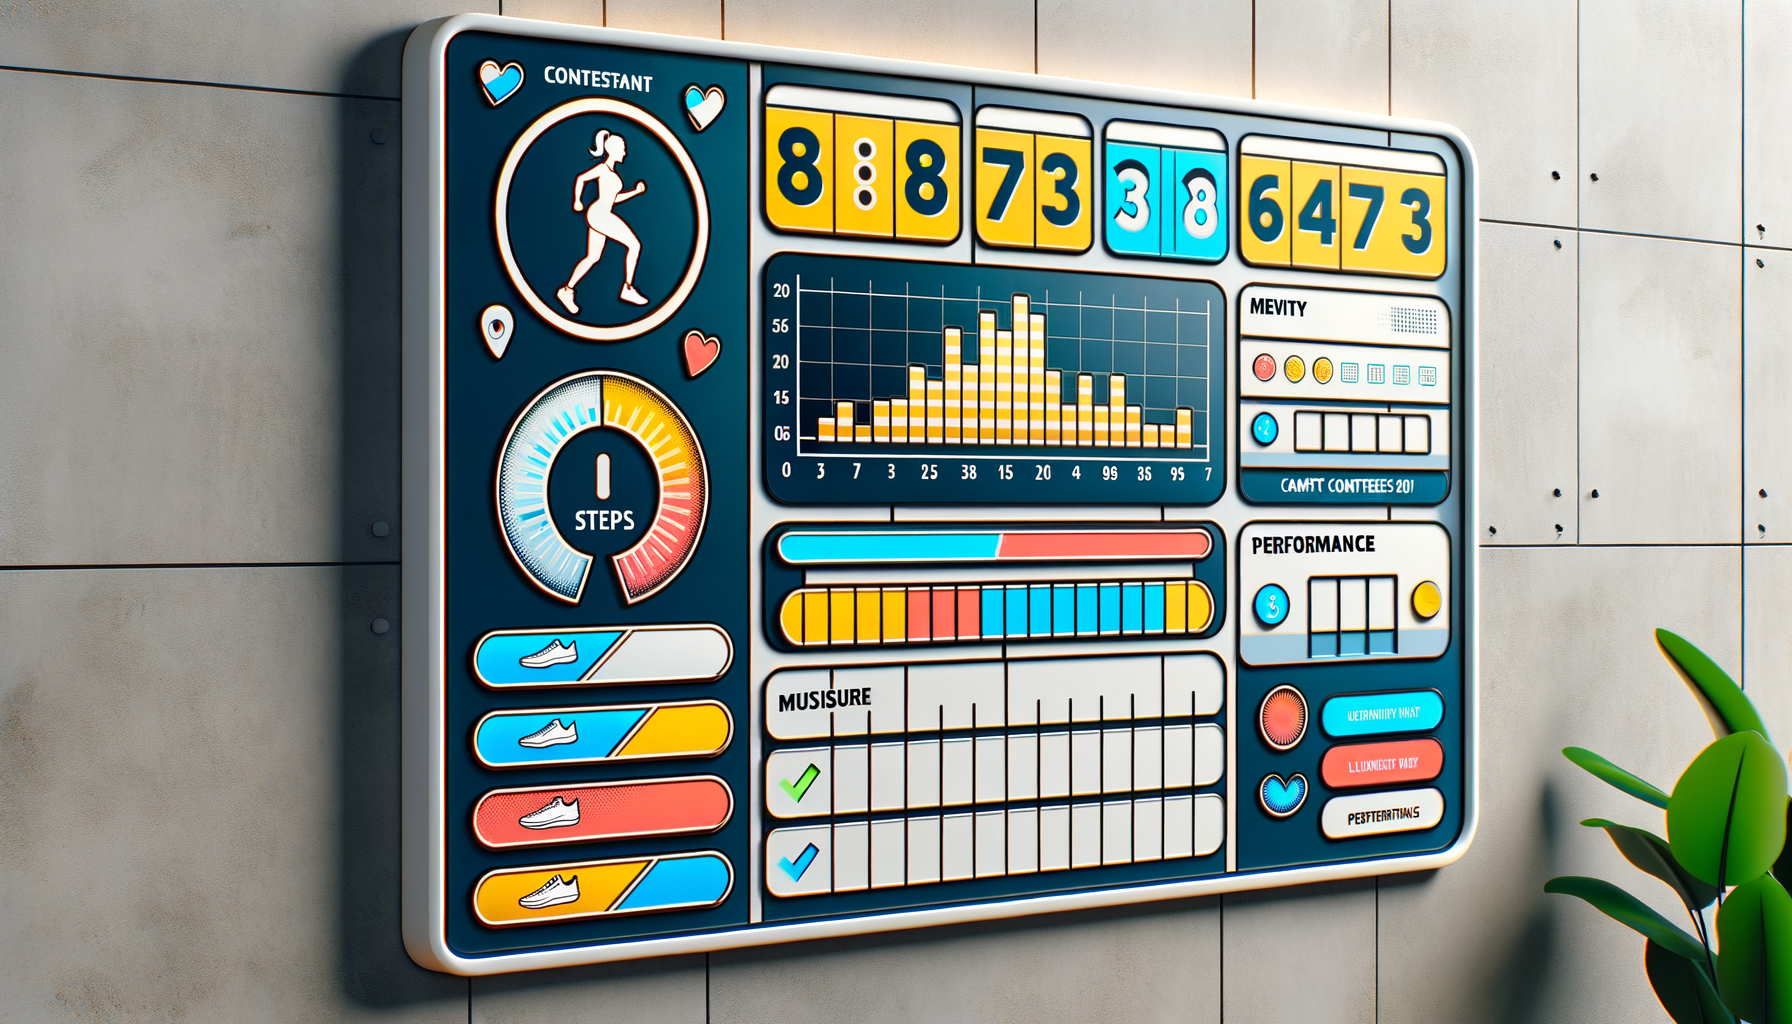
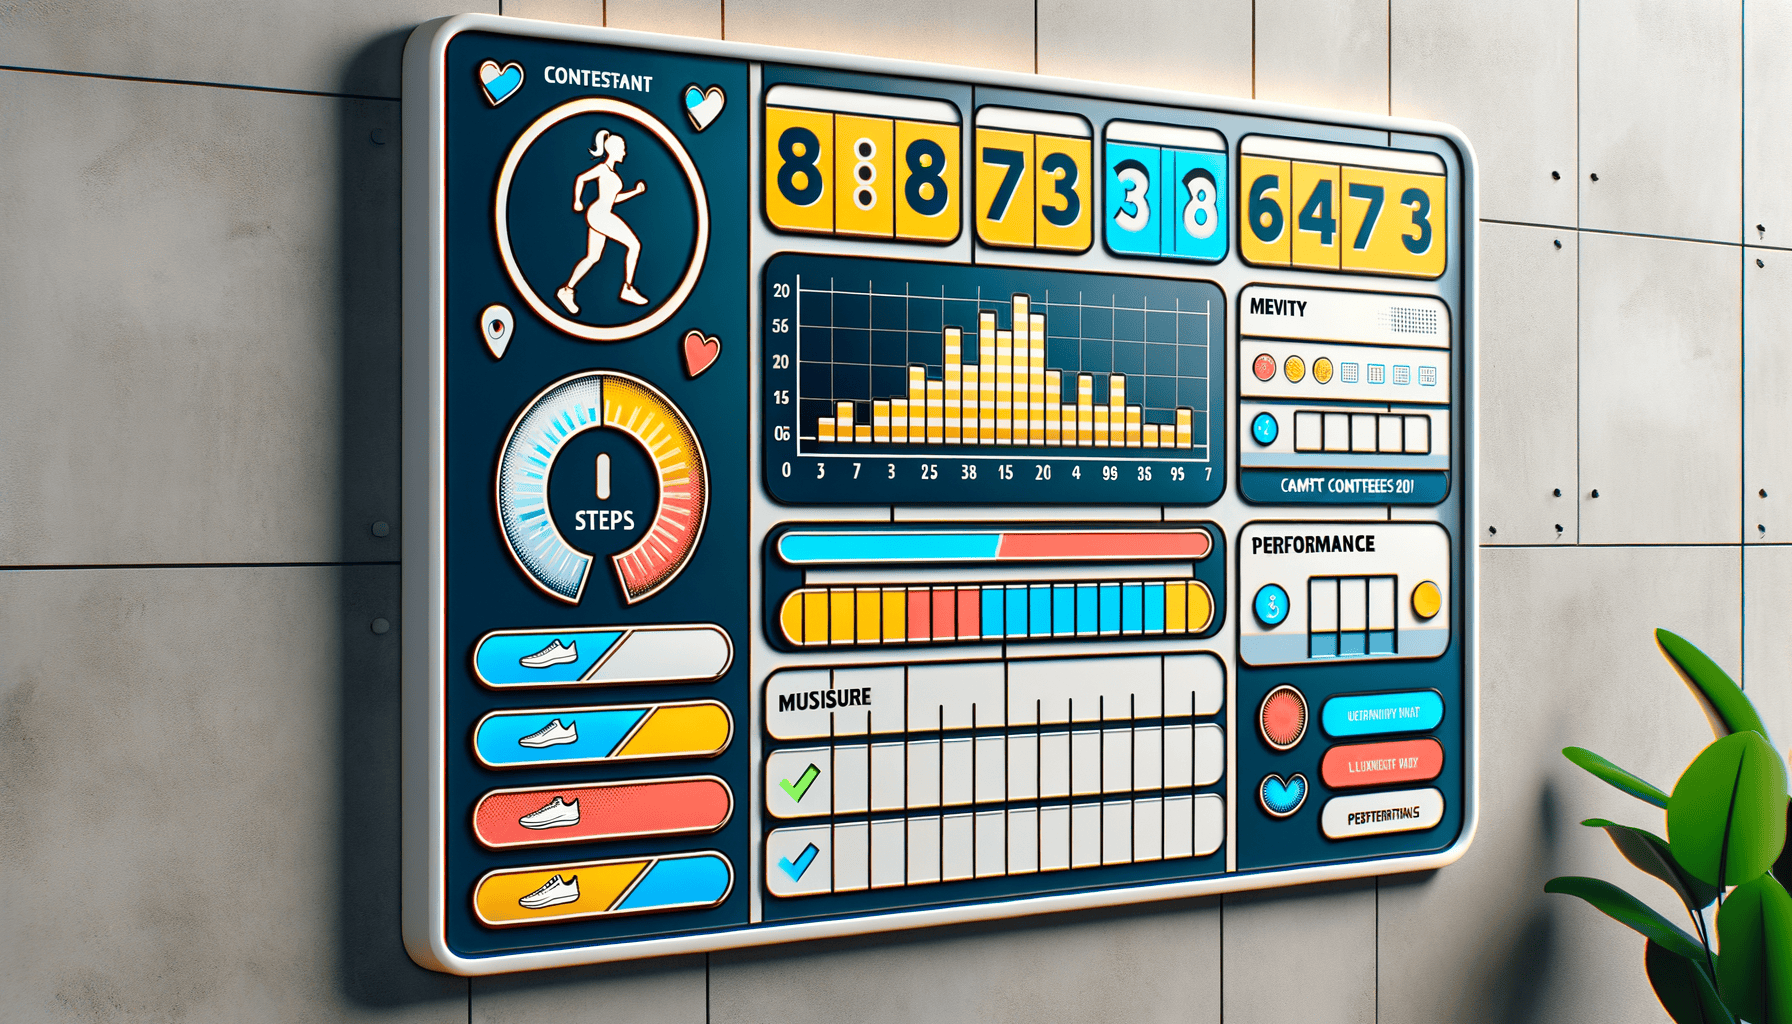
Fix SEO errors: title length, meta descriptions, OG tags, images, broken link
- Site title shortened to "Rise" to fix title-too-long warnings across all pages
- Added default og:image to _config.yml defaults to fix incomplete Open Graph tags
- Added H1 to waitlist page (was missing)
- Trimmed meta descriptions to ≤160 chars on 16 posts and 2 pages
- Fixed broken link to /blog/posts/sales-gamification/ (linked to corporate gamification post instead)
- Compressed 6 oversized images (1.1–3MB → 276KB–872KB):
  - gamification-sales-leaderboard: 3MB PNG → 416KB JPG
  - blog-cornhole-setup: 1.1MB PNG → 324KB JPG
  - fitness-challenge-leaderboard: 2.8MB → 872KB
  - fitness-challenge-team: 2.3MB → 728KB
  - gamification-elements: 1.7MB → 500KB
  - blog-hackathon-leaderboards: 1.1MB → 276KB
- Updated blog.html and index.html page titles to avoid duplicate "Rise" with new suffix
- Added .visually-hidden CSS utility class

diff --git a/index.html b/index.html
@@ -1,7 +1,7 @@
 ---
 layout: default
-title: "Rise — The Modern Tournament Bracket Platform"
-description: "Live scoreboards, streaming overlays, custom themes, and beautiful brackets. Rise is a new tournament platform launching soon. Join the waitlist for early access."
+title: "Tournament Bracket Maker — Free & Beautiful"
+description: "Live scoreboards, streaming overlays, custom themes, and beautiful brackets. Rise is a new tournament platform. Join the waitlist for early access."
 keywords: "bracket maker, tournament bracket generator, free bracket maker, tournament bracket, bracket creator, single elimination bracket"
 ---
 

diff --git a/features.html b/features.html
@@ -1,7 +1,7 @@
 ---
 layout: default
 title: "Features — Free Bracket Maker & What's Coming"
-description: "See what Rise can do today and what's on the roadmap. Single elimination brackets, export, print, share — plus upcoming live scoreboards, streaming overlays, and more."
+description: "See what Rise can do today and what's on the roadmap. Single elimination brackets, export, print, share — plus upcoming live scoreboards and streaming overlays."
 keywords: "bracket maker features, tournament bracket features, free bracket generator, live scoreboard, streaming overlay, double elimination"
 permalink: /features/
 ---

diff --git a/waitlist.html b/waitlist.html
@@ -22,6 +22,7 @@ permalink: /waitlist/
 </style>
 
 <main class="main-content">
+    <h1 class="visually-hidden">Join the Waitlist — Get Early Access to Rise Pro</h1>
     <section class="waitlist-page">
         <div data-tf-live="01KMJRH922TQNA5TCY8D0228BW"></div>
         <script src="//embed.typeform.com/next/embed.js"></script>

diff --git a/assets/css/main.css b/assets/css/main.css
@@ -975,3 +975,16 @@ body {
         align-items: center;
     }
 }
+
+/* Accessibility utility */
+.visually-hidden {
+    position: absolute;
+    width: 1px;
+    height: 1px;
+    padding: 0;
+    margin: -1px;
+    overflow: hidden;
+    clip: rect(0, 0, 0, 0);
+    white-space: nowrap;
+    border: 0;
+}

diff --git a/blog.html b/blog.html
@@ -1,6 +1,6 @@
 ---
 layout: default
-title: Blog — Tournament Tips, Formats & Strategy | Rise
+title: Blog — Tournament Tips, Formats & Strategy
 description: Tips, strategies, and insights on running tournaments, choosing bracket formats, and building competitive communities.
 permalink: /blog/
 ---

diff --git a/_posts/2024-10-01-what-is-gamification-beginners-guide.md b/_posts/2024-10-01-what-is-gamification-beginners-guide.md
@@ -5,7 +5,7 @@ date: 2024-10-01 10:00:00
 categories: guide
 author: Rise Global Team
 image: /assets/images/blog-gamification-guide.jpg
-excerpt: "Discover what gamification is, how it works, and why companies from Apple to Duolingo use game elements to boost engagement. Learn practical ways to implement gamification in your workplace, classroom, or personal goals."
+excerpt: "Discover what gamification is and why companies use game elements to boost engagement. Learn how to implement gamification in your workplace or classroom."
 redirect_from:
   - /2024/10/01/what-is-gamification-a-beginner/
 ---
@@ -54,7 +54,7 @@ What Duolingo gets right that most apps don't: failure feels temporary. Get an a
 
 ### Sales Floors: Where Gamification Gets Serious
 
-Walk into a modern sales floor and you'll see giant screens with real-time leaderboards. But the smart companies have moved past "most deals closed" as the only metric. The best [sales gamification](https://leaderboarded.com/blog/posts/sales-gamification/) systems now track the entire pipeline--calls made, meetings booked, proposals sent--so newer reps can compete on effort while they build their skills.
+Walk into a modern sales floor and you'll see giant screens with real-time leaderboards. But the smart companies have moved past "most deals closed" as the only metric. The best [sales gamification](/2025/02/01/corporate-gamification-boosting-employee-performance-leaderboards/) systems now track the entire pipeline--calls made, meetings booked, proposals sent--so newer reps can compete on effort while they build their skills.
 
 ![Competition leaderboard display](/assets/images/blog/competition_leaderboard.jpg)
 

diff --git a/_posts/2025-11-15-gamification-beispiele-unternehmen.md b/_posts/2025-11-15-gamification-beispiele-unternehmen.md
@@ -6,7 +6,7 @@ categories: guide
 lang: de
 author: Rise Global Team
 image: /assets/images/blog-gamification-unternehmen.jpg
-excerpt: "Gamification ist mehr als nur ein Buzzword – es ist eine der effektivsten Methoden, um Mitarbeiter zu motivieren und die Produktivität zu steigern. Entdecke die besten Beispiele und wie du sie in deinem Unternehmen umsetzt."
+excerpt: "Gamification motiviert Mitarbeiter und steigert die Produktivität. Entdecke die besten Beispiele und wie du Gamification in deinem Unternehmen umsetzt."
 ---
 
 Gamification hat ein Image-Problem. Das Wort klingt nach Startup-Bingo und nach Chefs, die glauben, ein Badge löse alle Motivationsprobleme. Aber wenn du es richtig machst -- nicht als Gimmick, sondern als echtes Werkzeug -- funktioniert es verdammt gut.
@@ -32,7 +32,7 @@ Mit [Leaderboarded](https://leaderboarded.com/de/) hast du so eine Rangliste in 
 
 Aber Achtung: Klare Regeln sind Pflicht. Was bringt wie viele Punkte? Wann wird aktualisiert? Wenn das unklar ist, entsteht Frust statt Motivation. Und feiere Erfolge öffentlich -- ein kurzer Shoutout in Slack nach einem großen Deal kostet nichts und wirkt viel.
 
-![Sales-Team schaut begeistert auf Rangliste](/assets/images/gamification-sales-leaderboard.png)
+![Sales-Team schaut begeistert auf Rangliste](/assets/images/gamification-sales-leaderboard.jpg)
 *Echtzeit-Ranglisten schaffen gesunden Wettbewerb und steigern die Motivation im Team*
 
 ### Onboarding mit Level-System

diff --git a/_posts/2026-03-21-how-to-run-cornhole-tournament.md b/_posts/2026-03-21-how-to-run-cornhole-tournament.md
@@ -1,7 +1,7 @@
 ---
 layout: post
 title: "How to Run a Cornhole Tournament That People Actually Enjoy"
-description: "Everything you need to run a cornhole tournament — format selection, scoring rules, how many boards to bring, time management, and bracket display. Practical advice from setup to trophy."
+description: "Everything you need to run a cornhole tournament — format selection, scoring rules, how many boards to bring, time management, and bracket display."
 author: Rise Team
 image: /assets/images/mockups/situational-02-cornhole-phone.png
 ---
@@ -12,7 +12,7 @@ Then 24 teams show up, you have 4 sets of boards, nobody remembers cancellation 
 
 Running a great cornhole tournament isn't about cornhole. It's about logistics. The throwing part takes care of itself.
 
-![Outdoor cornhole tournament setup with boards and bean bags](/assets/images/mockups/blog-cornhole-setup.png)
+![Outdoor cornhole tournament setup with boards and bean bags](/assets/images/mockups/blog-cornhole-setup.jpg)
 
 ## Choose Your Format First
 

diff --git a/_posts/2025-11-15-fitness-challenge-unternehmen.md b/_posts/2025-11-15-fitness-challenge-unternehmen.md
@@ -6,7 +6,7 @@ categories: guide
 lang: de
 author: Rise Global Team
 image: /assets/images/blog-fitness-unternehmen.jpg
-excerpt: "Eine Fitness Challenge im Unternehmen ist mehr als nur ein Health-Trend – es ist Team-Building, Gesundheitsförderung und Motivation in einem. Entdecke die besten Ideen und wie du eine erfolgreiche Fitness Challenge organisierst."
+excerpt: "Fitness Challenge im Unternehmen: Team-Building und Gesundheitsförderung. Entdecke die besten Ideen und wie du eine erfolgreiche Challenge organisierst."
 ---
 
 Dein Team sitzt acht Stunden am Tag. Abends noch Couch. Am nächsten Tag dasselbe. Das ist nicht nur ungesund, das ist auch schlecht für die Stimmung. Eine Fitness Challenge kann da erstaunlich viel bewegen -- und zwar nicht nur die Schrittzähler.

diff --git a/_posts/2025-02-01-corporate-gamification-boosting-employee-performance-leaderboards.md b/_posts/2025-02-01-corporate-gamification-boosting-employee-performance-leaderboards.md
@@ -5,7 +5,7 @@ date: 2025-02-01 09:00:00
 categories: business
 author: Rise Global Team
 image: /assets/images/blog-corporate-gamification.jpg
-excerpt: "Discover how employee gamification and workplace gamification transform company culture, boost productivity by up to 50%, and drive sales performance. Learn proven sales gamification strategies from Microsoft, Deloitte, and innovative startups."
+excerpt: "Discover how workplace gamification transforms company culture, boosts productivity by up to 50%, and drives sales performance with proven strategies from Microsoft and Deloitte."
 redirect_from:
   - /2025/02/01/corporate-gamification-boosting-employee-performance-with-leaderboards/
 ---

diff --git a/_posts/2024-12-15-gamification-in-education-teachers-use-points-leaderboards.md b/_posts/2024-12-15-gamification-in-education-teachers-use-points-leaderboards.md
@@ -5,7 +5,7 @@ date: 2024-12-15 09:00:00
 categories: education
 author: Rise Global Team
 image: /assets/images/blog-gamification-education.jpg
-excerpt: "Transform your classroom with proven gamification strategies. Learn how teachers worldwide use points, badges, and leaderboards to boost student engagement, motivation, and academic achievement."
+excerpt: "Transform your classroom with proven gamification strategies. Learn how teachers use points, badges, and leaderboards to boost student engagement and motivation."
 redirect_from:
   - /2024/12/15/gamification-in-education-how-teachers-use-points-and-leaderboards/
 ---

diff --git a/_posts/2025-03-15-fitness-challenges-made-fun-using-leaderboards-motivation.md b/_posts/2025-03-15-fitness-challenges-made-fun-using-leaderboards-motivation.md
@@ -5,7 +5,7 @@ date: 2025-03-15 09:00:00
 categories: health
 author: Rise Global Team
 image: /assets/images/blog-fitness-leaderboards.jpg
-excerpt: "Transform your fitness journey with the power of friendly competition. Learn how fitness leaderboards boost motivation by 48%, create lasting healthy habits, and make working out something you actually look forward to."
+excerpt: "Transform your fitness journey with friendly competition. Learn how fitness leaderboards boost motivation by 48% and create lasting healthy habits."
 redirect_from:
   - /2025/03/15/fitness-challenges-made-fun-using-leaderboards-for-motivation/
 ---
